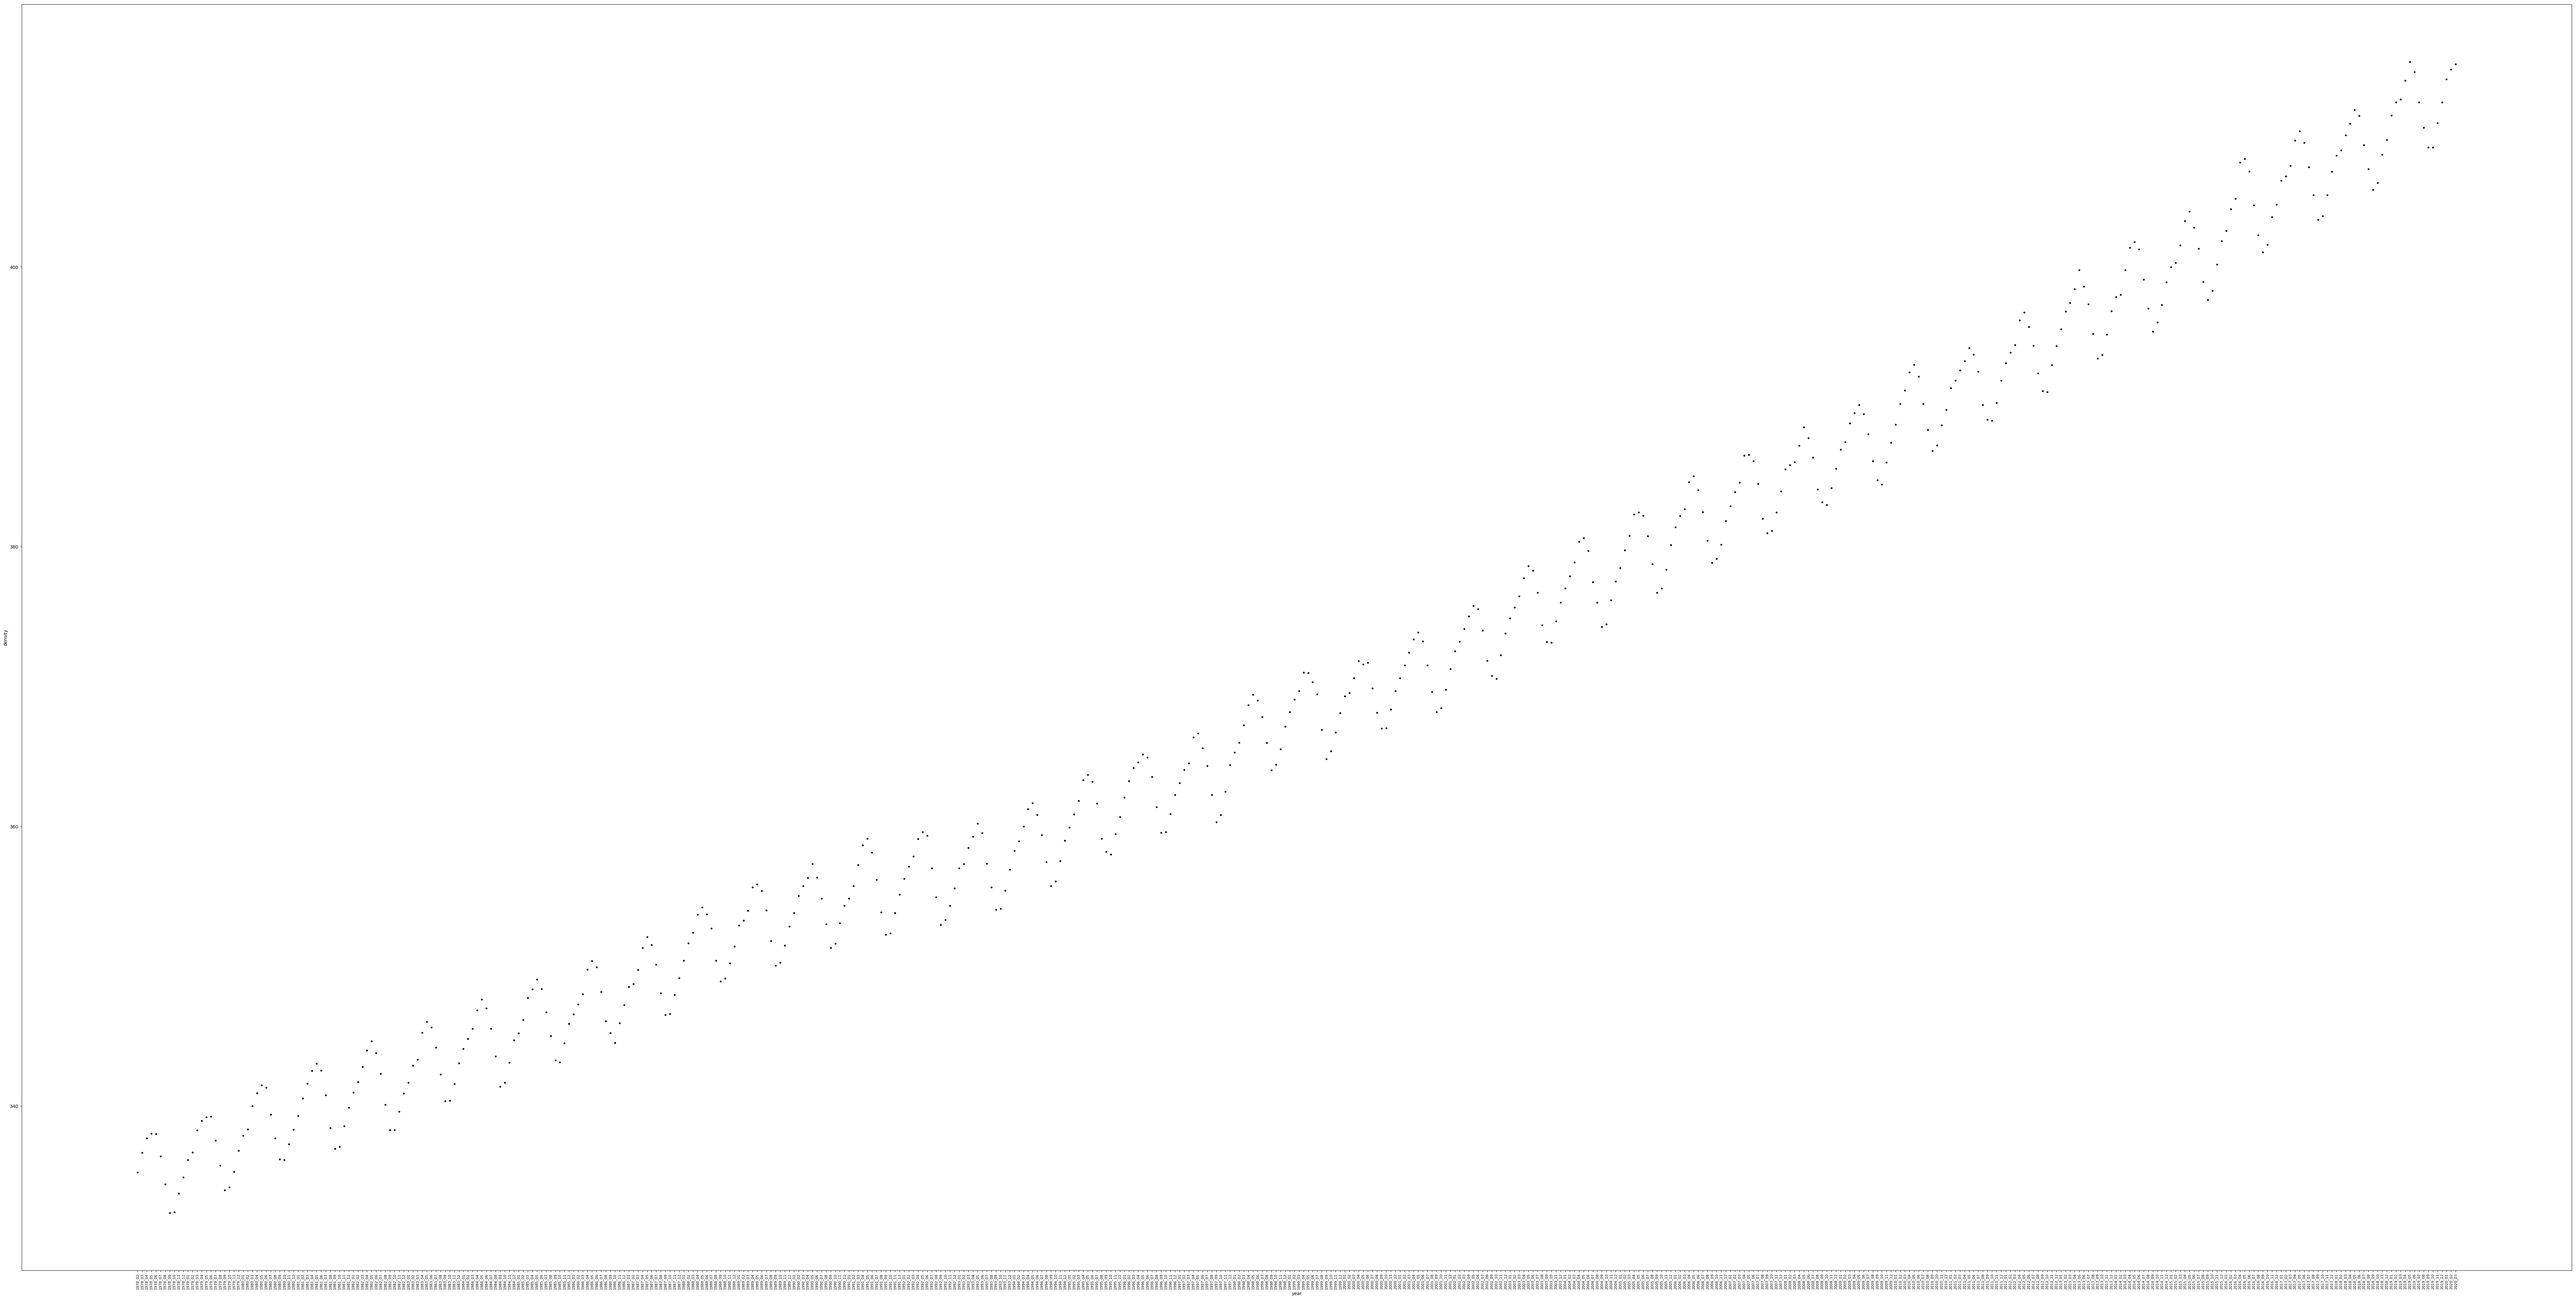
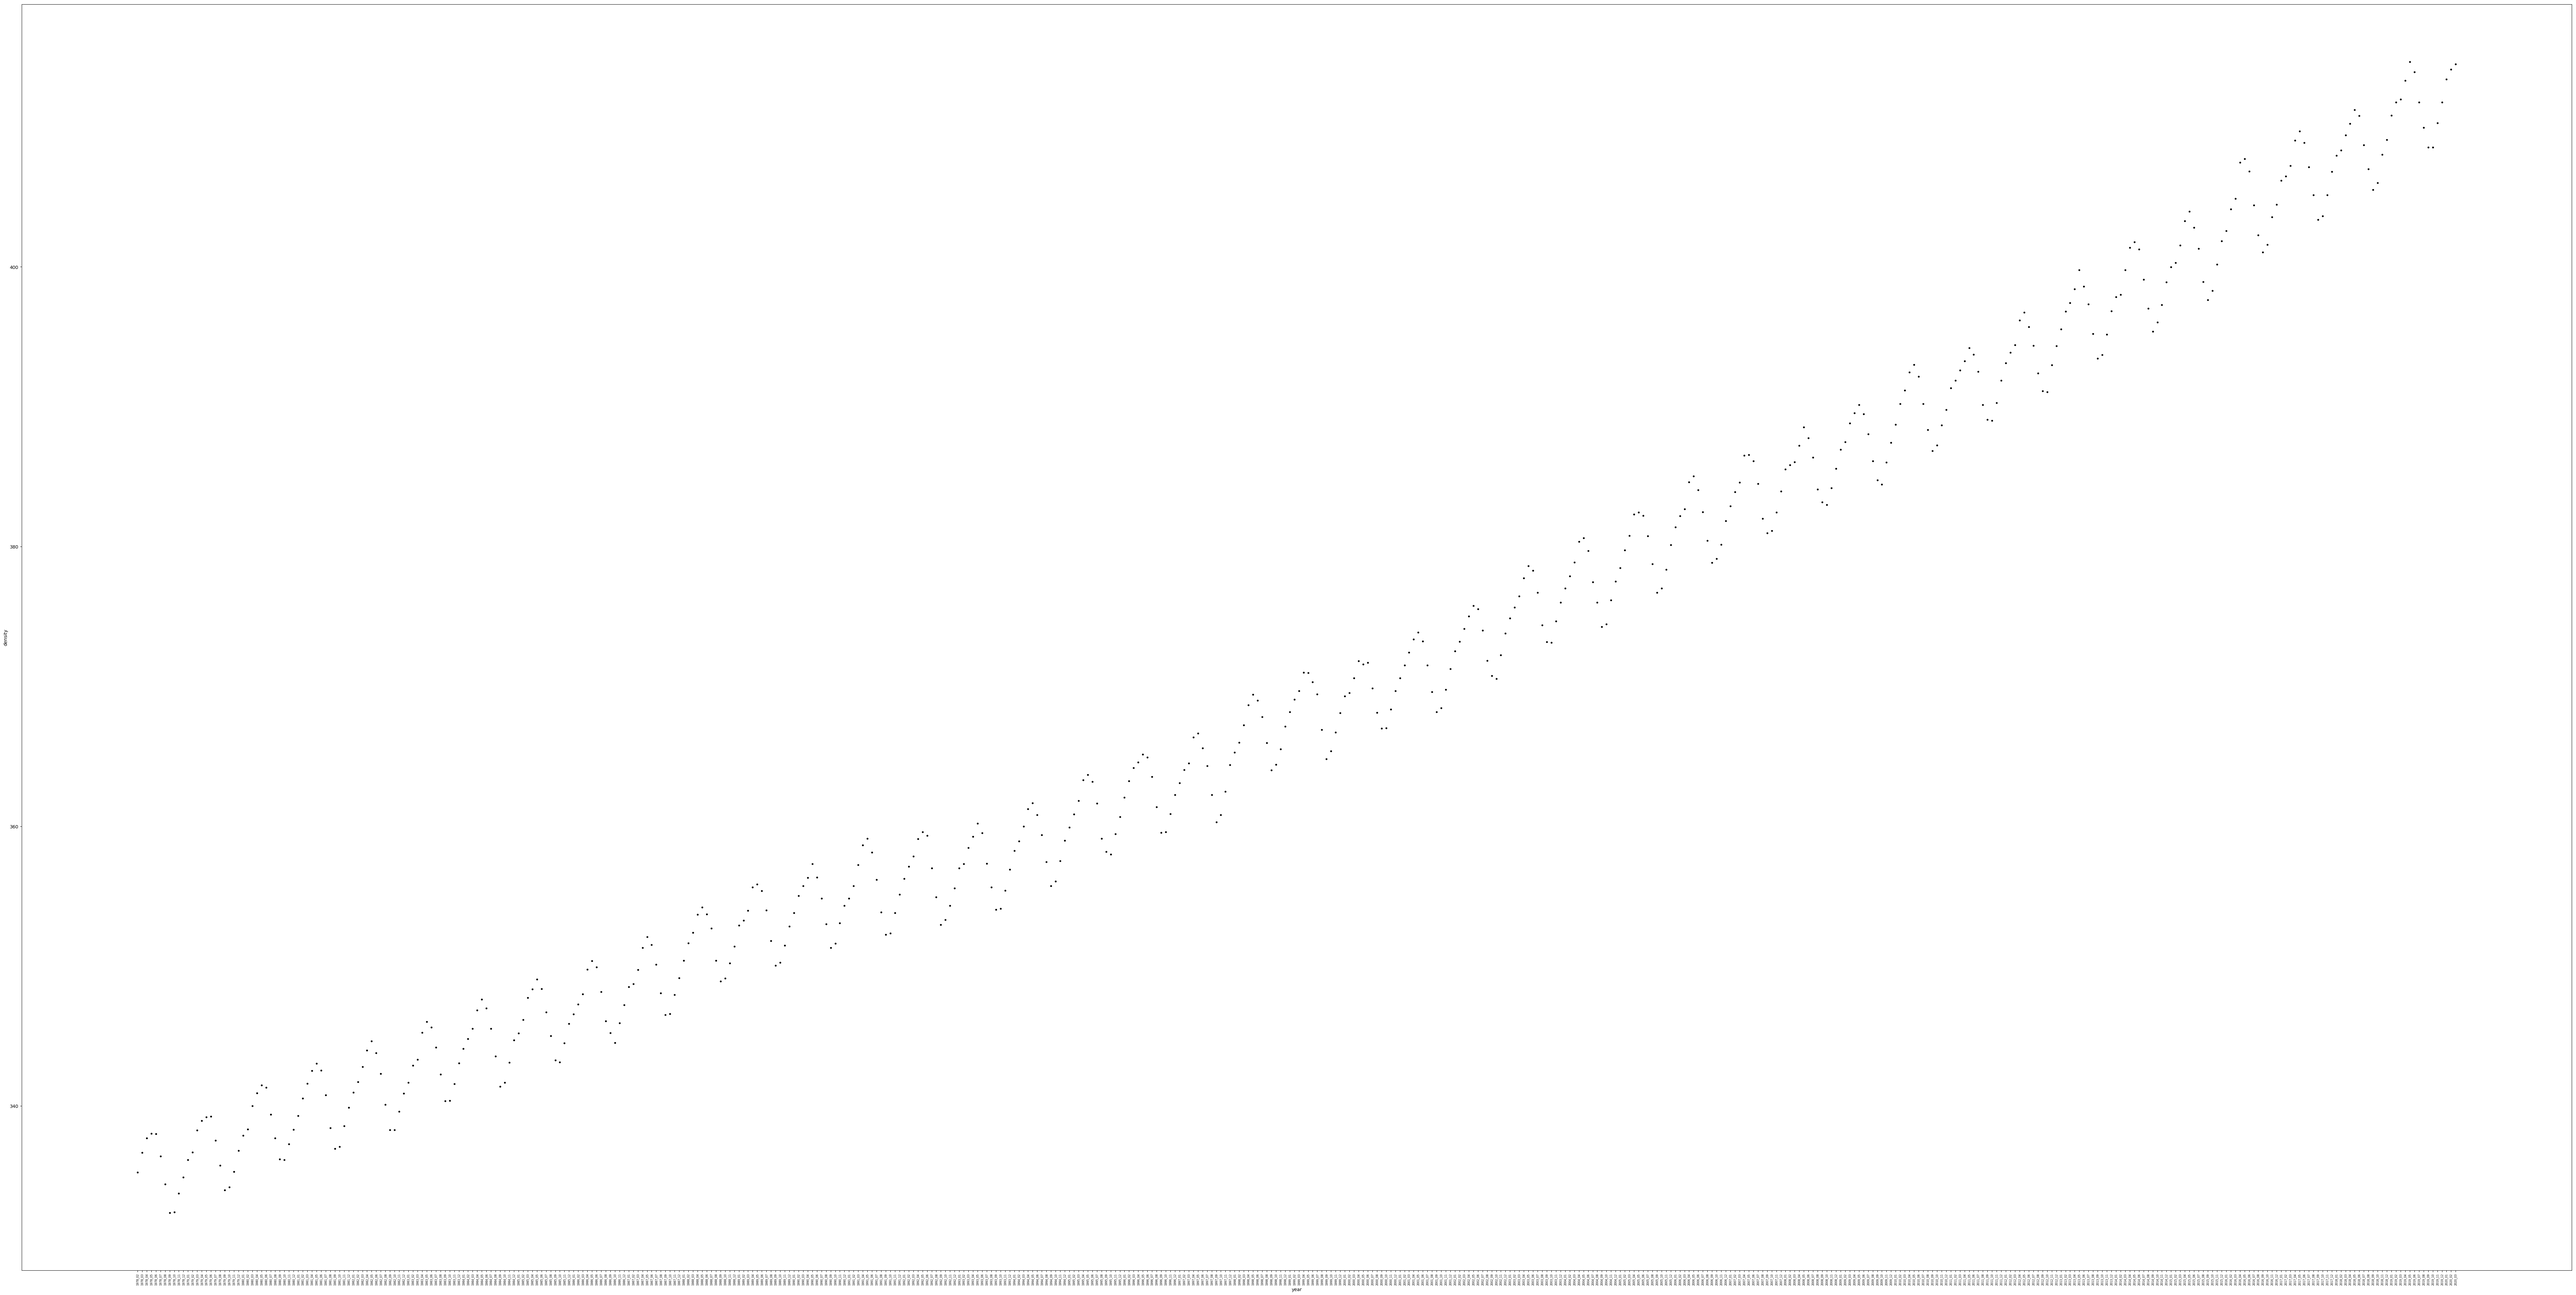
Add files via upload

Changed region(s): [[0.0623, 0.9683, 0.9662, 0.9995]]

diff --git a/co2_v2.py b/co2_v2.py
@@ -1,4 +1,4 @@
-co2=open('co2.txt','rb')
+co2=open('co2_v2.txt','rb')
 data=[]
 for i in co2:
  a,b,c,d,e,f,g=i.split()
@@ -6,22 +6,21 @@ for i in co2:
   data.append(a+'_0'+b+','+e)
  else:
   data.append(a+'_'+b+','+e)
-f=open('co2','wb')
+f=open('co2_v2','wb')
 f.write("\n".join(data))
 f.close()
+
 import matplotlib.pyplot as plt
-import matplotlib.ticker as ticker
 import pandas as pd
-data=pd.read_csv('co2')
+data=pd.read_csv('co2_v2')
 data.columns=['year','co2']
 plt.xlabel('year')
 plt.ylabel('density')
-plt.plot(data['year'],data['co2'],'k.')
 plt.xticks(rotation='vertical',fontsize=6)
-#plt.plot(data['year'],data['co2'],'k')
-#plt.locator_params(axis='x',nbins=10)
+plt.plot(data['year'],data['co2'],'k.')
+#plt.locator_params(nbins=51)
 fig=plt.figure(1)
-fig.set_size_inches(100,50)
-plt.savefig('co2.png',dpi=fig.dpi,bbox_inches='tight')
+fig.set_size_inches(10,5)
+plt.savefig('co2_v2.png',dpi=fig.dpi,bbox_inches='tight')
 plt.show()
 plt.close()
